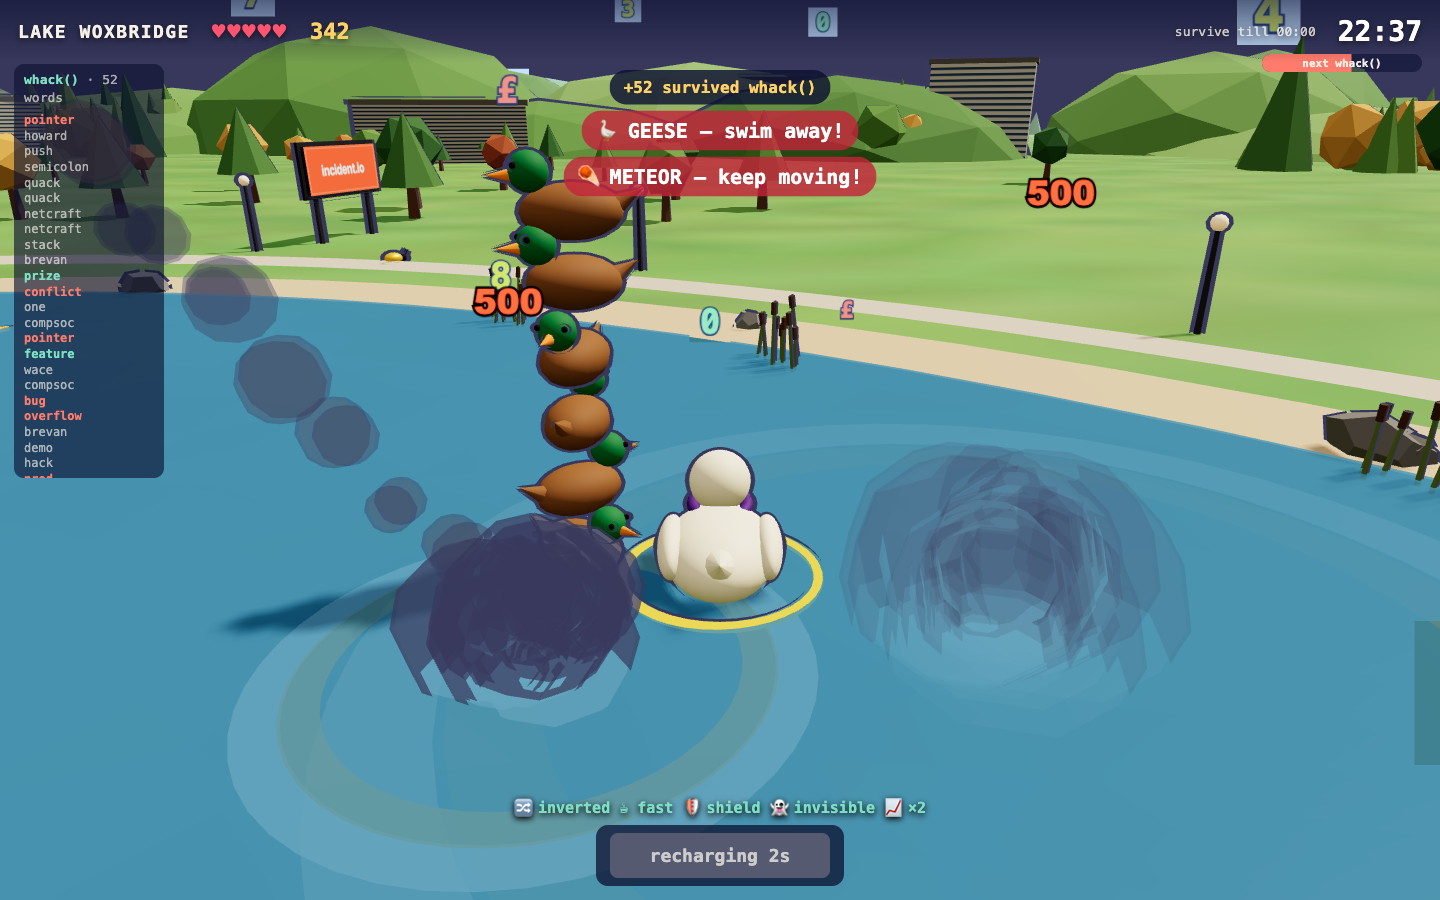
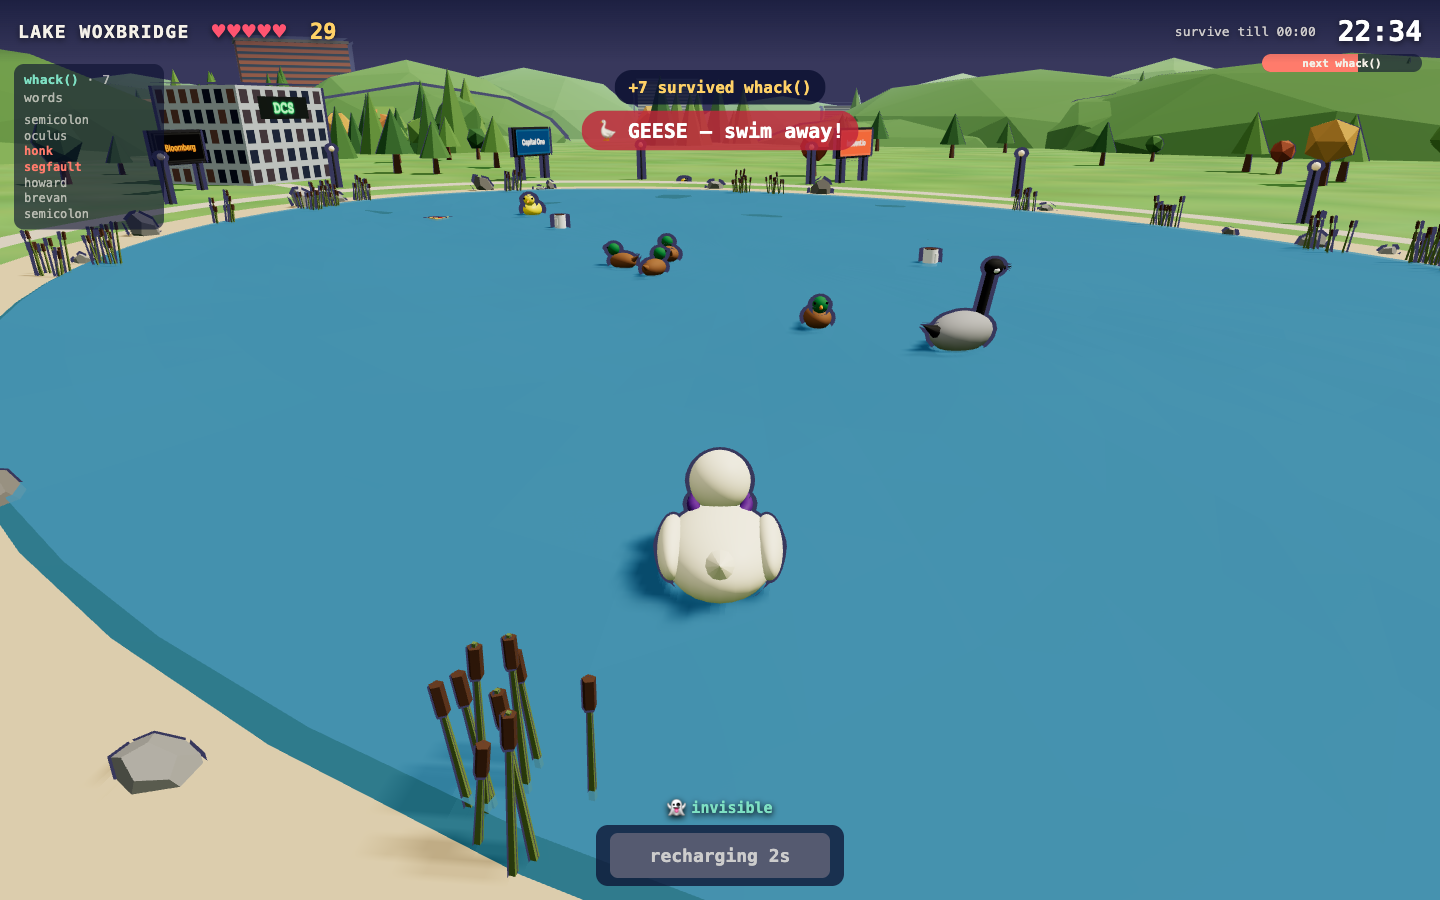
Shoreline barrier, tighter controls, smaller rubber ducks, cleaner sprites

diff --git a/submissions/chocoliticekreem/public/main.js b/submissions/chocoliticekreem/public/main.js
@@ -168,7 +168,7 @@ function guide(c) {
 function applyToPlayer(c) {
   const e = state.effects;
   const lines = [];
-  if (c.segfault) { e.invert = Math.min(6, 2 + c.segfault); lines.push(`💥 segfault ×${c.segfault}: your controls are now inverted`); }
+  if (c.segfault) { e.invert = 2; lines.push(`💥 segfault ×${c.segfault}: your controls are now inverted`); }
   if (c.sleep) { e.slow = Math.min(6, 2 + c.sleep); lines.push(`😴 sleep ×${c.sleep}: you are so, so tired`); }
   if (c.coffee) { e.fast = Math.min(8, 3 + c.coffee); lines.push(`☕ coffee ×${c.coffee}: ZOOM`); }
   if (c.rubber) { e.shield = Math.min(10, 4 + c.rubber * 2); lines.push(`🛟 rubber ×${c.rubber}: rubber duck shield up`); }
@@ -436,25 +436,27 @@ addEventListener("keydown", (ev) => {
   keys.add(k);
 });
 addEventListener("keyup", (ev) => keys.delete(ev.key.toLowerCase()));
+addEventListener("blur", () => keys.clear());
 $("whack-btn").addEventListener("click", () => (state.phase === "play" ? selfWhack() : doWhack(false)));
 
 function movePlayer(dt) {
   const e = state.effects;
-  const dir = e.invert > 0 ? -1 : 1;
+  const flip = e.invert > 0 ? -1 : 1;
   let turn = 0;
   let fwd = 0;
   if (keys.has("a") || keys.has("arrowleft")) turn += 1;
   if (keys.has("d") || keys.has("arrowright")) turn -= 1;
   if (keys.has("w") || keys.has("arrowup")) fwd += 1;
-  if (keys.has("s") || keys.has("arrowdown")) fwd -= 1;
-  const speed = 9 * (e.fast > 0 ? 1.8 : 1) * (e.slow > 0 ? 0.35 : 1);
-  state.heading += turn * dir * 2.6 * dt;
-  const step = fwd * dir * speed * dt;
-  duck.position.x = THREE.MathUtils.clamp(duck.position.x + Math.sin(state.heading) * step, -120, 120);
-  duck.position.z = THREE.MathUtils.clamp(duck.position.z + Math.cos(state.heading) * step, -120, 120);
+  if (keys.has("s") || keys.has("arrowdown")) fwd -= 0.6;
+  const speed = 13 * (e.fast > 0 ? 1.6 : 1) * (e.slow > 0 ? 0.5 : 1);
+  state.heading += turn * flip * 3.4 * dt;
+  const step = fwd * speed * dt;
+  let x = duck.position.x + Math.sin(state.heading) * step;
+  let z = duck.position.z + Math.cos(state.heading) * step;
+  const edge = Math.hypot(x / world.lake.radiusX, z / world.lake.radiusZ) / 0.95;
+  if (edge > 1) { x /= edge; z /= edge; }
+  duck.position.set(x, world.lake.waterY + Math.sin(performance.now() / 300) * 0.06, z);
   duck.rotation.y = state.heading;
-  const inLake = world.isInLake(duck.position.x, duck.position.z);
-  duck.position.y = inLake ? world.lake.waterY + Math.sin(performance.now() / 300) * 0.06 : 0;
 }
 
 function tickEffects(dt) {
@@ -529,6 +531,9 @@ function frame() {
   pond.update(dt, t);
   updateCamera(dt);
   renderHud();
+  scene.traverse((o) => {
+    if (o.isSprite && !o.material.userData.outlineParameters) o.material.userData.outlineParameters = { visible: false };
+  });
   outline.render(scene, camera);
   requestAnimationFrame(frame);
 }

diff --git a/submissions/chocoliticekreem/public/pond.js b/submissions/chocoliticekreem/public/pond.js
@@ -3,12 +3,12 @@ import * as THREE from "three";
 const DUCK_CAP = 80;
 const GOOSE_CAP = 30;
 const BUG_CAP = 40;
-const RUBBER_CAP = 3;
+const RUBBER_CAP = 1;
 const FOOD_CAP = 20;
 const DUCK_SCALE = 1.3;
 const GOOSE_SCALE = DUCK_SCALE * 1.5;
 const BUG_SCALE = 1.5;
-const RUBBER_SCALE = 4.5;
+const RUBBER_SCALE = 1.8;
 const FOOD_SCALE = 1.4;
 
 const G = {
